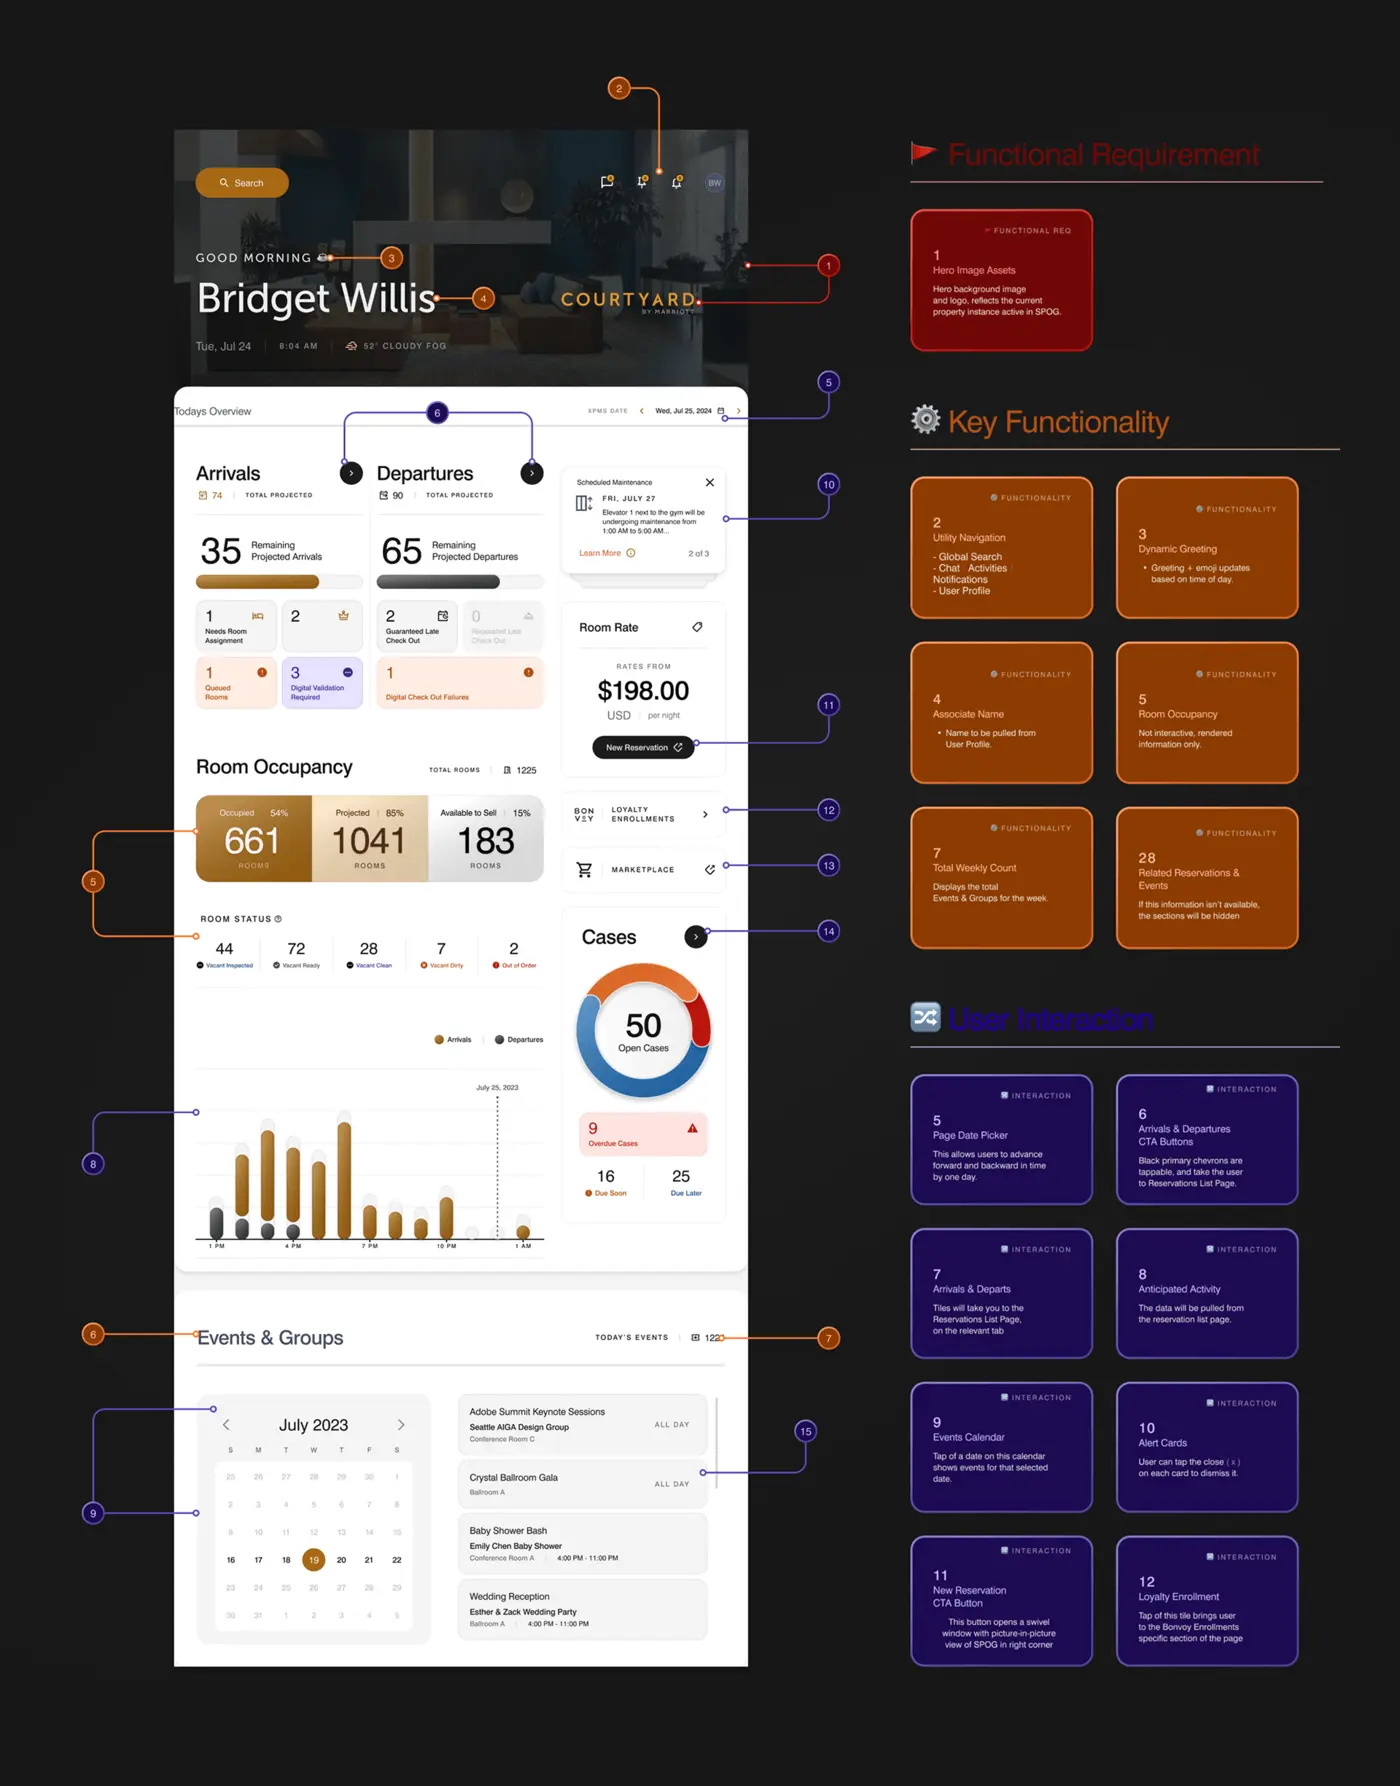
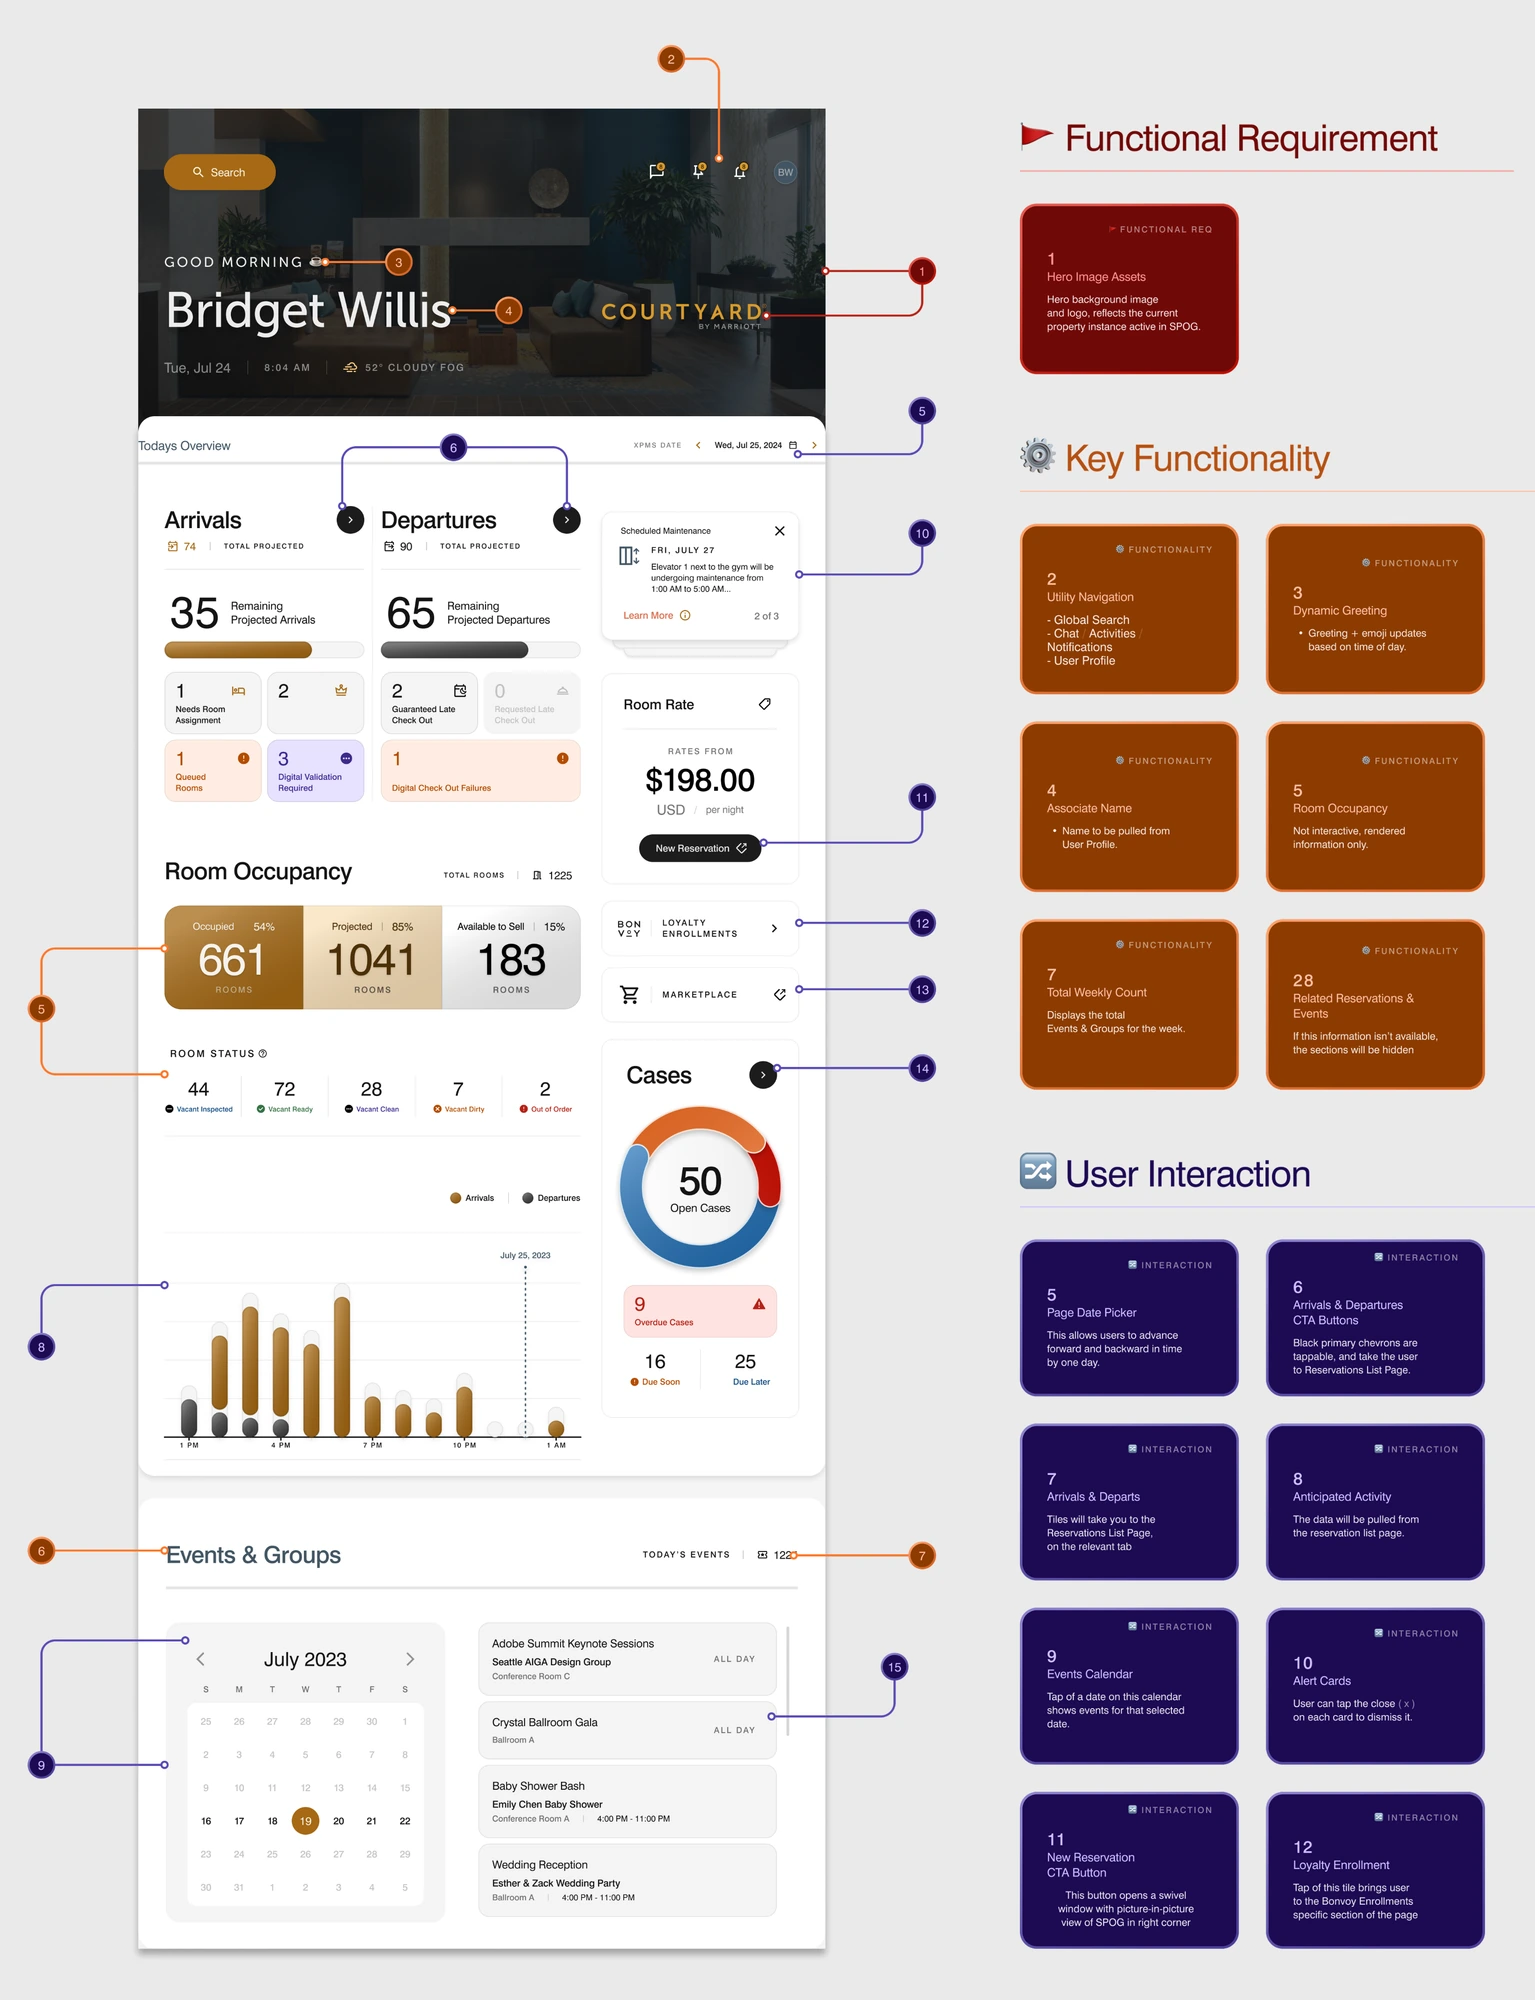
feat: Marriott page restructure (SPOG intro, grids, higher-res specs); add error-state illustrations to the reel scroll
Marriott: adds the SPOG explainer board right after the opening shot,
drops the dashboard-in-motion gif and folds the overview/flow and the
enroll/enroll-modal videos into side-by-side grids, and swaps both the
dashboard spec and the enrolment spec for higher-resolution exports.

Reel scroll: adds the Yum! Brands error-state illustrations next to the
pricing-analyzer plates.

diff --git a/_pages/marriott.md b/_pages/marriott.md
@@ -83,27 +83,28 @@ next_project:
 <p class="cube-cap cube-cap--above">An employee app for Marriott staff, across every Bonvoy property.</p>
 <div class="cs-bleed" data-zoom><img src="{{ site.baseurl }}/assets/img/marriott/01-what.webp" alt="What we did, Marriott Bonvoy employee app" loading="lazy" decoding="async" /></div>
 
+<div class="cs-bleed" data-zoom><img src="{{ site.baseurl }}/assets/img/marriott/00-spog.webp" alt="Marriott Bonvoy SPOG: a whole shift in one place, read the day, watch what needs attention, help the guest" loading="lazy" decoding="async" /></div>
+
 <div class="cs-section">
   <h2 class="cs-section-label">The dashboard</h2>
 </div>
 
-<p class="cube-cap cube-cap--above">The dashboard. The whole shift on one pane.</p>
-<div class="cs-bleed"><img src="{{ site.baseurl }}/assets/img/marriott/02-dashboard.gif" alt="SPOG dashboard overview in motion" loading="lazy" decoding="async" /></div>
-
 <p class="cube-cap cube-cap--above">The specification. Every element mapped to a requirement.</p>
 <div class="cs-bleed" data-zoom><img src="{{ site.baseurl }}/assets/img/marriott/03-spec.webp" alt="Annotated dashboard specification" loading="lazy" decoding="async" /></div>
 
-<div class="cs-bleed"><video width="1200" height="674" autoplay muted loop playsinline preload="none" poster="{{ site.baseurl }}/assets/img/marriott/04-overview-poster.jpg" aria-label="Operational overview metrics"><source src="{{ site.baseurl }}/assets/img/marriott/04-overview.mp4" type="video/mp4" /></video></div>
-
-<div class="cs-bleed"><video width="1100" height="618" autoplay muted loop playsinline preload="none" poster="{{ site.baseurl }}/assets/img/marriott/05-flow-poster.jpg" aria-label="Peak reservation flow and cases"><source src="{{ site.baseurl }}/assets/img/marriott/05-flow.mp4" type="video/mp4" /></video></div>
+<div class="cs-grid cs-grid--fit">
+  <div class="cs-grid-item"><video autoplay muted loop playsinline preload="none" poster="{{ site.baseurl }}/assets/img/marriott/04-overview-poster.jpg" aria-label="Operational overview metrics"><source src="{{ site.baseurl }}/assets/img/marriott/04-overview.mp4" type="video/mp4" /></video></div>
+  <div class="cs-grid-item"><video autoplay muted loop playsinline preload="none" poster="{{ site.baseurl }}/assets/img/marriott/05-flow-poster.jpg" aria-label="Peak reservation flow and cases"><source src="{{ site.baseurl }}/assets/img/marriott/05-flow.mp4" type="video/mp4" /></video></div>
+</div>
 
 <div class="cs-section">
   <h2 class="cs-section-label">Loyalty enrolment</h2>
 </div>
 
 <p class="cube-cap cube-cap--above">Loyalty enrolment, without leaving the desk.</p>
-<div class="cs-bleed"><video width="1100" height="618" autoplay muted loop playsinline preload="none" poster="{{ site.baseurl }}/assets/img/marriott/06-enroll-poster.jpg" aria-label="Bonvoy loyalty enrolment carousel"><source src="{{ site.baseurl }}/assets/img/marriott/06-enroll.mp4" type="video/mp4" /></video></div>
+<div class="cs-grid cs-grid--fit">
+  <div class="cs-grid-item"><video autoplay muted loop playsinline preload="none" poster="{{ site.baseurl }}/assets/img/marriott/06-enroll-poster.jpg" aria-label="Bonvoy loyalty enrolment carousel"><source src="{{ site.baseurl }}/assets/img/marriott/06-enroll.mp4" type="video/mp4" /></video></div>
+  <div class="cs-grid-item"><video autoplay muted loop playsinline preload="none" poster="{{ site.baseurl }}/assets/img/marriott/08-enrollmodal-poster.jpg" aria-label="Enroll new member modal"><source src="{{ site.baseurl }}/assets/img/marriott/08-enrollmodal.mp4" type="video/mp4" /></video></div>
+</div>
 
 <div class="cs-bleed" data-zoom><img src="{{ site.baseurl }}/assets/img/marriott/07-enrollspec.webp" alt="Loyalty enrolment key functionality" loading="lazy" decoding="async" /></div>
-
-<div class="cs-bleed"><video width="1100" height="618" autoplay muted loop playsinline preload="none" poster="{{ site.baseurl }}/assets/img/marriott/08-enrollmodal-poster.jpg" aria-label="Enroll new member modal"><source src="{{ site.baseurl }}/assets/img/marriott/08-enrollmodal.mp4" type="video/mp4" /></video></div>

diff --git a/_pages/siddharth.md b/_pages/siddharth.md
@@ -64,6 +64,7 @@ description: Everything Siddharth Mehta makes, in one scroll. Product, brand, sp
     <div class="reel-plate reel-plate--third"><video autoplay muted loop playsinline preload="metadata" poster="{{ B }}/assets/img/marriott/06-enroll-poster.jpg"><source src="{{ B }}/assets/img/marriott/06-enroll.mp4" type="video/mp4" /></video></div>
     <div class="reel-plate reel-plate--third"><img src="{{ B }}/assets/img/fairview/13-impact.webp" alt="Fairview impact" loading="lazy" decoding="async" style="--pos: 50% 0" /></div>
     <div class="reel-plate reel-plate--wide" style="--ar: 2000/550"><img src="{{ B }}/assets/img/pricing-analyzer/pizzahut-illustrations.webp" alt="Pizza Hut brand illustrations: pizza, delivery, the kitchen, the storefront" loading="lazy" decoding="async" /></div>
+    <div class="reel-plate reel-plate--wide" style="--ar: 16/9"><img src="{{ B }}/assets/img/pricing-analyzer/error-states.webp" alt="Error state illustrations for the Yum! Brands pricing portals: Pizza Hut, Taco Bell, KFC, Arby's" loading="lazy" decoding="async" /></div>
   </div>
 </section>
 
